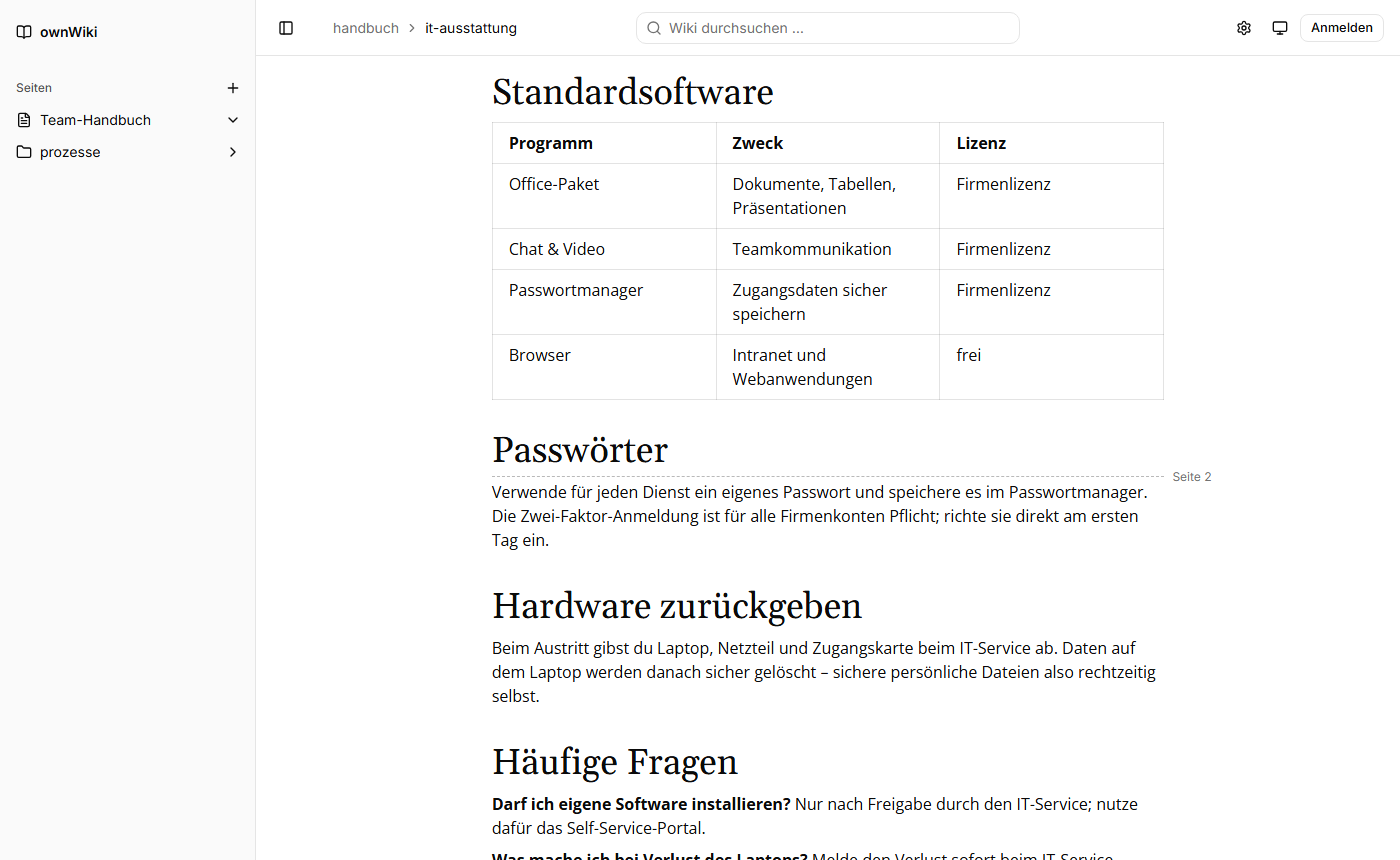
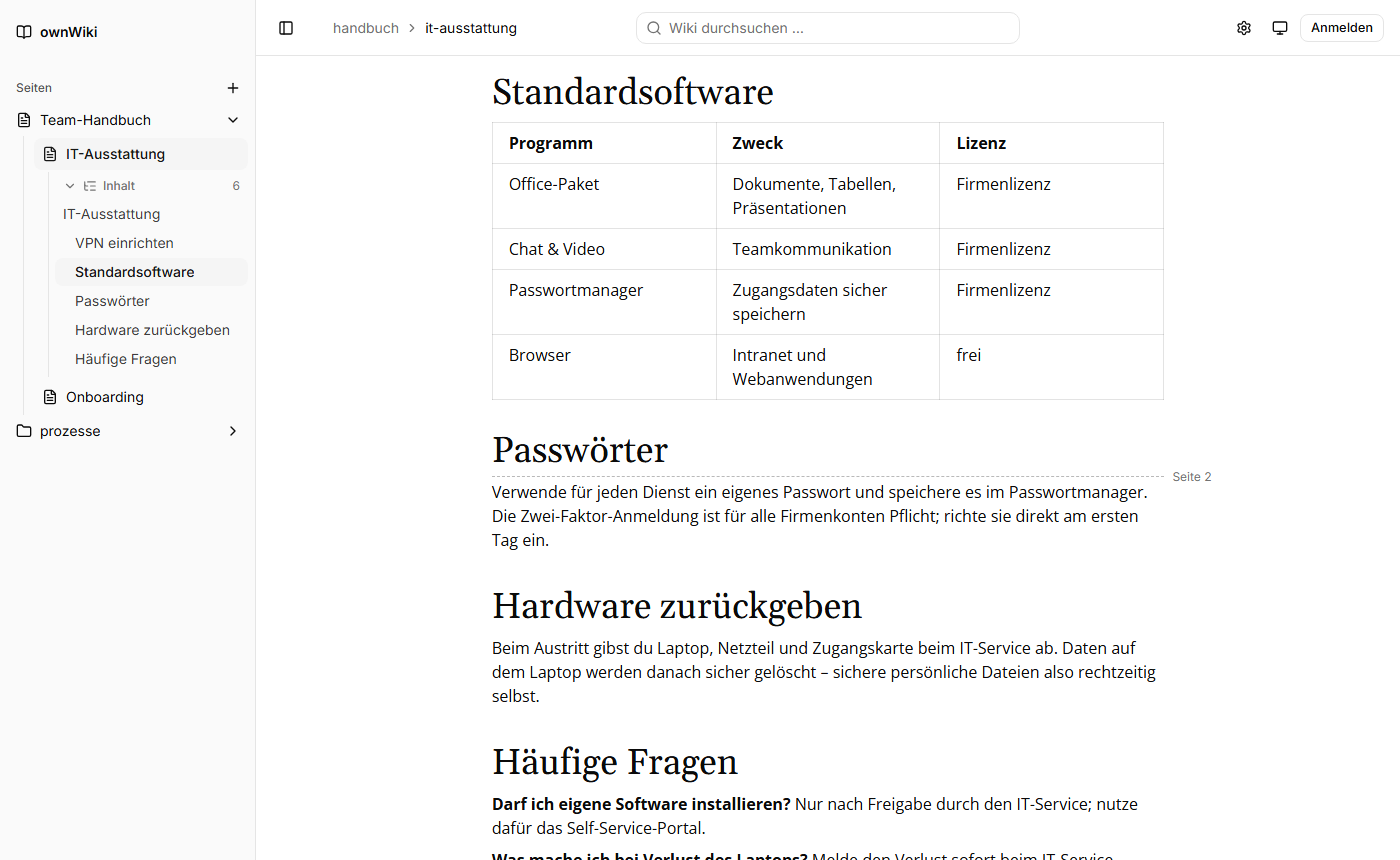
Document the table of contents in the README, refresh screenshots

Changed region(s): [[0.0307, 0.1512, 0.1536, 0.4233], [0.0, 0.4535, 0.0921, 0.514]]

diff --git a/README.md b/README.md
@@ -14,9 +14,13 @@ Ein selbst gehostetes Wiki für technische Dokumentation und Anleitungen – mit
 - **Volltextsuche** über Titel, Pfade und Text aller Seiten, mit hervorgehobenen Treffern.
 - **Versionsverlauf**: Jede Änderung wird gespeichert; alte Stände lassen sich ansehen und wiederherstellen.
 - **Wiki-Links** im Obsidian-Stil: `[[Seitenname]]` oder `[[Seitenname|Linktext]]`.
-- **Seitenhierarchie** über Pfade (`personal/kuendigung`), als einklappbare Seitenleiste.
+- **Seitenhierarchie** über Pfade (`personal/kuendigung`), als einklappbare Seitenleiste – mit dem **Inhaltsverzeichnis** der geöffneten Seite direkt im Baum.
 - **Anpassbare Werkzeugleiste**, **Hell- und Dunkelmodus**, **drei Zugriffsmodi** – vom offenen Team-Wiki bis zum privaten Wiki.
 - **SQLite oder PostgreSQL**, komplett in Docker betreibbar.
+
+### Inhaltsverzeichnis
+
+Unter der geöffneten Seite zeigt der Seitenbaum ihre Überschriften, nach Ebenen eingerückt. Ein Klick springt zur Überschrift; der Abschnitt, in dem man gerade liest, ist markiert. Das Verzeichnis lässt sich über „Inhalt“ einklappen und aktualisiert sich beim Bearbeiten sofort mit.
 
 ### Schreiben
 
@@ -146,5 +150,4 @@ Die Ende-zu-Ende-Tests bauen die App und starten sie wie im Docker-Image (`node 
 ## Noch nicht umgesetzt
 
 - Semantische Suche (KI/Vektor-Embeddings) – die Suche ist dafür als austauschbarer Baustein angelegt (`src/lib/server/search`)
-- Automatisches Inhaltsverzeichnis aus den Überschriften
 - Speicherung von Dateien in S3-kompatiblem Speicher (z. B. MinIO) statt in der Datenbank
